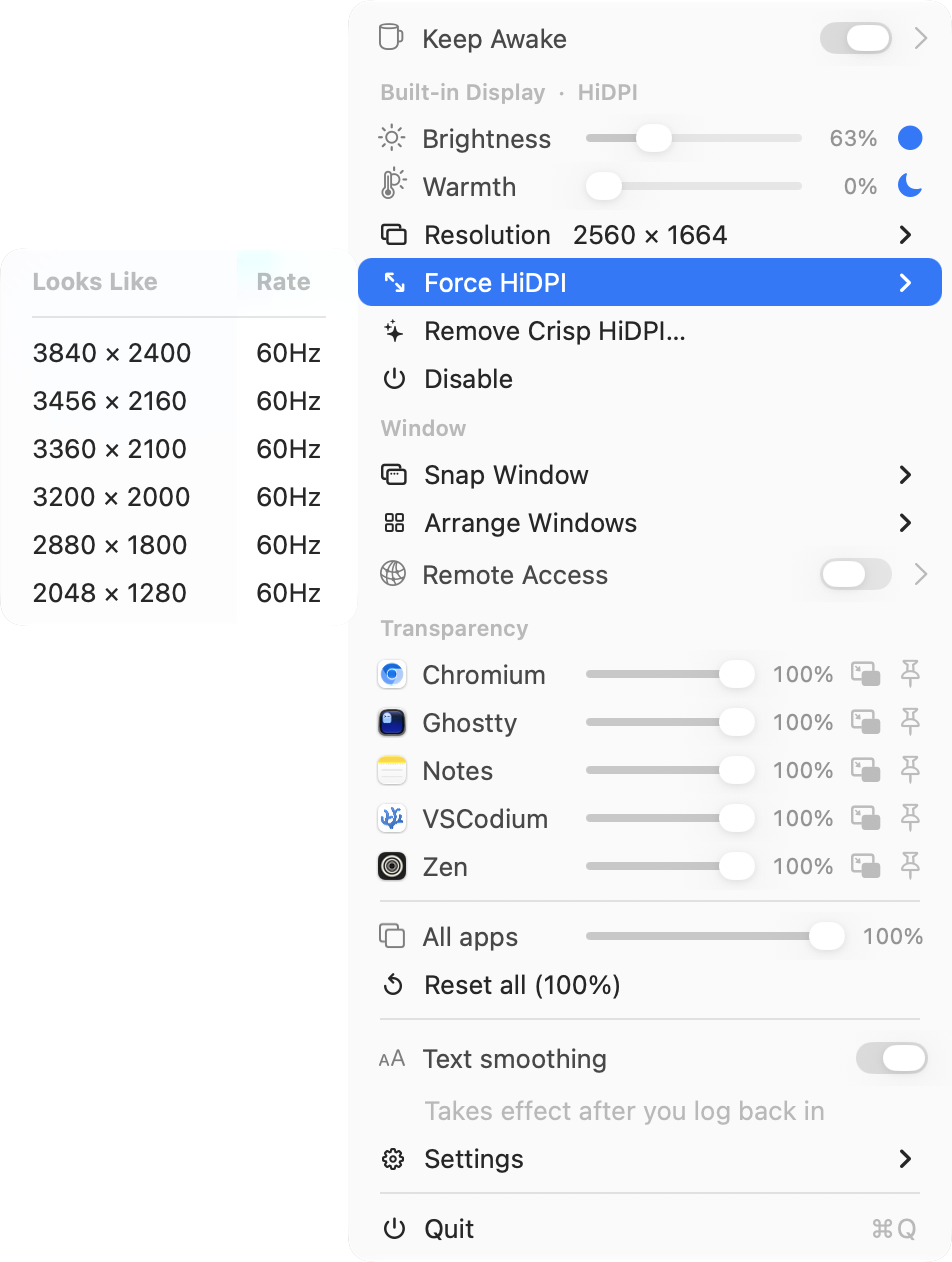
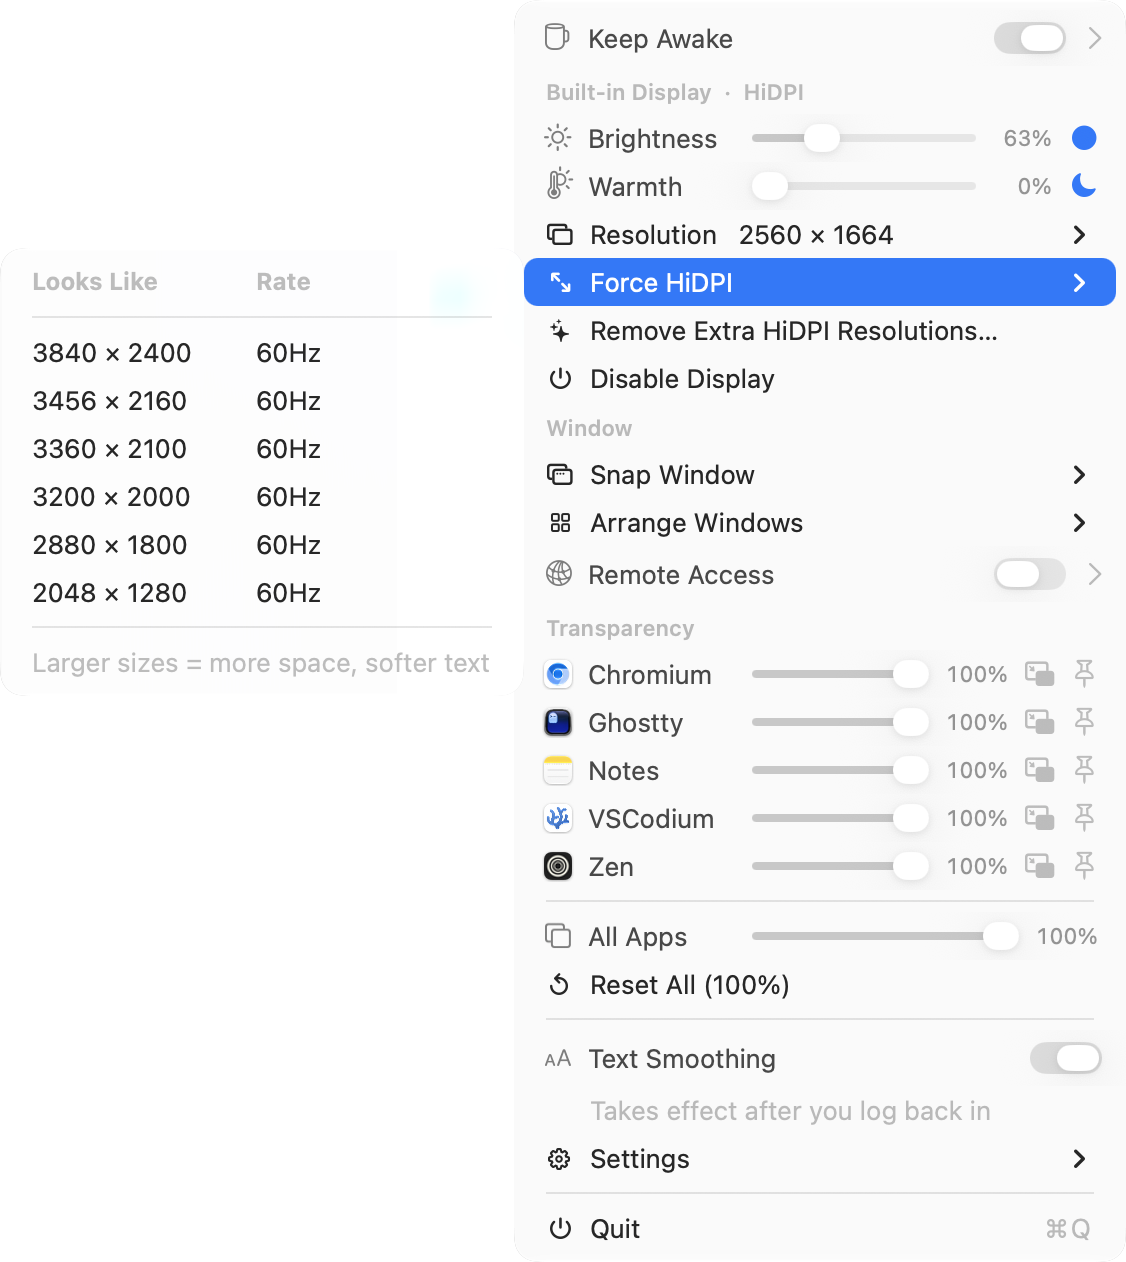
Clearer menu wording and resolution hints
Rename Crisp HiDPI to Extra HiDPI Resolutions, say which thing
Disable/Enable acts on, use Title Case for menu items, and note in the
Resolution and Force HiDPI menus that larger sizes are softer. Refresh
the screenshots to match.

diff --git a/src/app/AppDelegate.m b/src/app/AppDelegate.m
@@ -45,6 +45,7 @@ static const CGFloat kModeTabType = 112;
 static const CGFloat kModeTabRate = 184;
 
 static const CGFloat kSliderRowWidth = 150;
+static NSString *const kLargerSizesHint = @"Larger sizes = more space, softer text";
 static const NSInteger kSliderItemTag = 0x51D5;
 static const void *kDDPctLabelKey = &kDDPctLabelKey;
 
@@ -425,7 +426,7 @@ static NSAttributedString *ddColumns(NSArray<NSString *> *cols, NSArray<NSNumber
 
     [menu addItem:[NSMenuItem separatorItem]];
 
-    [menu addItem:[self switchRow:@"Text smoothing" icon:@"textformat.size"
+    [menu addItem:[self switchRow:@"Text Smoothing" icon:@"textformat.size"
                                on:([self currentFontSmoothing] != 0)
                            action:@selector(fontSmoothingToggled:) width:kSliderRowWidth]];
 
@@ -463,7 +464,7 @@ static NSAttributedString *ddColumns(NSArray<NSString *> *cols, NSArray<NSNumber
         [self addLabelToMenu:m title:
             [NSString stringWithFormat:@"Awake until %@", [df stringFromDate:caf.expiry]]];
     }
-    [m addItem:[NSMenuItem sectionHeaderWithTitle:@"Keep awake for"]];
+    [m addItem:[NSMenuItem sectionHeaderWithTitle:@"Keep Awake For"]];
     NSArray *durations = @[ @[@"15 minutes", @900], @[@"30 minutes", @1800],
                             @[@"1 hour", @3600], @[@"2 hours", @7200], @[@"5 hours", @18000] ];
     for (NSArray *d in durations) {
@@ -616,8 +617,8 @@ static NSAttributedString *ddColumns(NSArray<NSString *> *cols, NSArray<NSNumber
     [sm addItem:[self snapItem:@"Center"   layout:DDSnapCenter   key:@"c"]];
     [sm addItem:[self snapItem:@"Restore"  layout:DDSnapRestore  key:@"z"]];
     [sm addItem:[NSMenuItem separatorItem]];
-    [sm addItem:[self checkItemWithTitle:@"Snap by dragging" key:kSnapDrag]];
-    [sm addItem:[self checkItemWithTitle:@"Keyboard shortcuts (⌃⌥)" key:kSnapShortcuts]];
+    [sm addItem:[self checkItemWithTitle:@"Snap by Dragging" key:kSnapDrag]];
+    [sm addItem:[self checkItemWithTitle:@"Keyboard Shortcuts (⌃⌥)" key:kSnapShortcuts]];
 
     root.submenu = sm;
     [menu addItem:root];
@@ -683,11 +684,11 @@ static NSAttributedString *ddColumns(NSArray<NSString *> *cols, NSArray<NSNumber
         [self addInfoRow:m title:[NSString stringWithFormat:@"This Mac, ssh %d, vnc %d", ra.sshPort, ra.vncPort]
                    image:ddSymbol(@"desktopcomputer")];
     }
-    NSMenuItem *key = [[NSMenuItem alloc] initWithTitle:@"Copy this Mac's relay key"
+    NSMenuItem *key = [[NSMenuItem alloc] initWithTitle:@"Copy This Mac's Relay Key"
         action:@selector(copyRemoteAuthLine:) keyEquivalent:@""];
     key.target = self; key.image = ddSymbol(@"key");
     [m addItem:key];
-    [m addItem:[self switchRow:@"Keep awake while on" icon:@"powersleep"
+    [m addItem:[self switchRow:@"Keep Awake While On" icon:@"powersleep"
                             on:ra.keepAwake action:@selector(keepAwakeRemoteToggled:)
                          width:kSliderRowWidth]];
 
@@ -891,7 +892,7 @@ static NSAttributedString *ddColumns(NSArray<NSString *> *cols, NSArray<NSNumber
             if (display.refreshRate > 0) [line appendFormat:@" %.0fHz", display.refreshRate];
             [self addInfoRow:menu title:line image:ddSymbol(@"display")];
         }
-        [menu addItem:[self actionItem:@"Enable"
+        [menu addItem:[self actionItem:@"Enable Display"
                                 action:@selector(enableDisplay:) displayID:display.displayID
                                 symbol:@"power"]];
         return;
@@ -924,13 +925,13 @@ static NSAttributedString *ddColumns(NSArray<NSString *> *cols, NSArray<NSNumber
 
     BOOL installed = [[HiDPIInjector shared] isInstalledForDisplay:display.displayID];
     [menu addItem:[self actionItem:(installed
-                                    ? @"Remove Crisp HiDPI\u2026"
-                                    : @"Install Crisp HiDPI\u2026")
+                                    ? @"Remove Extra HiDPI Resolutions\u2026"
+                                    : @"Install Extra HiDPI Resolutions\u2026")
                             action:(installed ? @selector(uninstallCrispHiDPI:)
                                               : @selector(installCrispHiDPI:))
                          displayID:display.displayID
                             symbol:@"sparkles"]];
-    [menu addItem:[self actionItem:@"Disable"
+    [menu addItem:[self actionItem:@"Disable Display"
                             action:@selector(disableDisplay:) displayID:display.displayID
                             symbol:@"power"]];
 }
@@ -1010,6 +1011,9 @@ static NSAttributedString *ddColumns(NSArray<NSString *> *cols, NSArray<NSNumber
 
     for (DDDisplayMode *m in options) [submenu addItem:makeRow(m)];
 
+    [submenu addItem:[NSMenuItem separatorItem]];
+    [self addLabelToMenu:submenu title:kLargerSizesHint];
+
     return submenu;
 }
 
@@ -1035,10 +1039,10 @@ static NSAttributedString *ddColumns(NSArray<NSString *> *cols, NSArray<NSNumber
             runningApplicationWithProcessIdentifier:app.pid] icon];
         NSButton *pip = [self rowToggleWithSymbol:@"pip.enter" onSymbol:@"pip.exit"
             state:[[WindowPiP shared] isActiveForApp:app.pid] tag:app.pid
-           action:@selector(togglePiPApp:) tooltip:@"Picture in picture"];
+           action:@selector(togglePiPApp:) tooltip:@"Picture in Picture"];
         NSButton *pin = [self rowToggleWithSymbol:@"pin" onSymbol:@"pin.fill"
             state:app.pinned tag:app.pid
-           action:@selector(togglePinApp:) tooltip:@"Keep on top"];
+           action:@selector(togglePinApp:) tooltip:@"Keep on Top"];
         [menu addItem:[self sliderRowWithLabel:app.name icon:appIcon
                                        percent:pct minPct:20
                                         maxPct:100 continuous:YES tag:app.pid
@@ -1047,13 +1051,13 @@ static NSAttributedString *ddColumns(NSArray<NSString *> *cols, NSArray<NSNumber
     }
 
     [menu addItem:[NSMenuItem separatorItem]];
-    [menu addItem:[self sliderRowWithLabel:@"All apps" icon:ddSymbol(@"square.on.square")
+    [menu addItem:[self sliderRowWithLabel:@"All Apps" icon:ddSymbol(@"square.on.square")
                                    percent:100 minPct:20
                                     maxPct:100 continuous:YES tag:0
                                     action:@selector(opacitySliderChanged:)
                                  accessories:@[]]];
     NSMenuItem *reset = [[NSMenuItem alloc]
-        initWithTitle:@"Reset all (100%)"
+        initWithTitle:@"Reset All (100%)"
                action:@selector(resetAllTransparency:) keyEquivalent:@""];
     reset.target = self;
     reset.image = ddSymbol(@"arrow.counterclockwise");
@@ -1289,16 +1293,16 @@ static NSAttributedString *ddColumns(NSArray<NSString *> *cols, NSArray<NSNumber
     [menu removeAllItems];
 
     [menu addItem:[NSMenuItem sectionHeaderWithTitle:@"General"]];
-    [menu addItem:[self checkItemWithTitle:@"Show notifications" key:kShowNotifications]];
-    [menu addItem:[self checkItemWithTitle:@"Confirm before disabling" key:kConfirmDisable]];
-    [menu addItem:[self checkItemWithTitle:@"Show non-HiDPI resolutions" key:kShowResolutions]];
+    [menu addItem:[self checkItemWithTitle:@"Show Notifications" key:kShowNotifications]];
+    [menu addItem:[self checkItemWithTitle:@"Confirm Before Disabling" key:kConfirmDisable]];
+    [menu addItem:[self checkItemWithTitle:@"Show Non-HiDPI Resolutions" key:kShowResolutions]];
 
     [menu addItem:[NSMenuItem sectionHeaderWithTitle:@"Display"]];
-    [menu addItem:[self checkItemWithTitle:@"Turn off built-in with external display"
+    [menu addItem:[self checkItemWithTitle:@"Turn Off Built-in Display When an External Is Connected"
                                        key:kAutoManage]];
 
     [menu addItem:[NSMenuItem sectionHeaderWithTitle:@"Transparency"]];
-    [menu addItem:[self checkItemWithTitle:@"Frosted glass blur" key:kFrostedBlur]];
+    [menu addItem:[self checkItemWithTitle:@"Frosted Glass Blur" key:kFrostedBlur]];
 
     [menu addItem:[NSMenuItem separatorItem]];
     NSMenuItem *login = [[NSMenuItem alloc] initWithTitle:@"Launch at Login"
@@ -1308,7 +1312,7 @@ static NSAttributedString *ddColumns(NSArray<NSString *> *cols, NSArray<NSNumber
         ? NSControlStateValueOn : NSControlStateValueOff;
     [menu addItem:login];
 
-    [menu addItem:[NSMenuItem sectionHeaderWithTitle:@"Help & support"]];
+    [menu addItem:[NSMenuItem sectionHeaderWithTitle:@"Help & Support"]];
     [menu addItem:[self linkItem:@"Support DisplayDeck…" symbol:@"heart"
         url:@"https://donate.stripe.com/3cI6oI7Gh1PG0eV8MJ5kk00"]];
     [menu addItem:[self linkItem:@"Report a Bug…" symbol:@"ladybug"
@@ -1437,6 +1441,7 @@ static NSAttributedString *ddColumns(NSArray<NSString *> *cols, NSArray<NSNumber
 
     [submenu addItem:[NSMenuItem separatorItem]];
     [self addLabelToMenu:submenu title:@"★ = panel-native (crispest)"];
+    [self addLabelToMenu:submenu title:kLargerSizesHint];
 
     return submenu;
 }
@@ -1597,7 +1602,7 @@ static NSAttributedString *ddColumns(NSArray<NSString *> *cols, NSArray<NSNumber
 
     NSAlert *alert = [[NSAlert alloc] init];
     alert.messageText = [NSString stringWithFormat:
-        @"Install crisp HiDPI on \"%@\"?", name];
+        @"Install extra HiDPI resolutions on \"%@\"?", name];
     alert.informativeText = [NSString stringWithFormat:
         @"Writes /Library/Displays/…/DisplayVendorID-%x/DisplayProductID-%x "
         @"with these logical resolutions as native HiDPI modes:\n\n%@\n"
@@ -1625,7 +1630,7 @@ static NSAttributedString *ddColumns(NSArray<NSString *> *cols, NSArray<NSNumber
         [strongSelf rebuildMenu];
         [strongSelf offerRebootWithMessage:
             [NSString stringWithFormat:
-             @"Crisp HiDPI overrides installed for \"%@\".", name]];
+             @"Extra HiDPI resolutions installed for \"%@\".", name]];
     }];
 }
 
@@ -1634,7 +1639,7 @@ static NSAttributedString *ddColumns(NSArray<NSString *> *cols, NSArray<NSNumber
     NSString *name = [self.displayManager nameForDisplayID:did];
 
     if (![self confirmDestructive:[NSString stringWithFormat:
-                                   @"Remove crisp HiDPI overrides for \"%@\"?", name]
+                                   @"Remove extra HiDPI resolutions for \"%@\"?", name]
                              info:@"Requires admin password. A reboot is needed "
                                   @"to fully revert to macOS defaults."
                        actionName:@"Remove"]) {
@@ -1657,7 +1662,7 @@ static NSAttributedString *ddColumns(NSArray<NSString *> *cols, NSArray<NSNumber
         [strongSelf rebuildMenu];
         [strongSelf offerRebootWithMessage:
             [NSString stringWithFormat:
-             @"Crisp HiDPI overrides removed for \"%@\".", name]];
+             @"Extra HiDPI resolutions removed for \"%@\".", name]];
     }];
 }
 

diff --git a/README.md b/README.md
@@ -32,7 +32,7 @@ Disable & enable screens, Force HiDPI, brightness with EDR boost, color warmth (
 |                                  |                                                                                                                                                                                                                                                                                                                                                                                                                                                                                                                                                                              |
 | -------------------------------- | ---------------------------------------------------------------------------------------------------------------------------------------------------------------------------------------------------------------------------------------------------------------------------------------------------------------------------------------------------------------------------------------------------------------------------------------------------------------------------------------------------------------------------------------------------------------------------- |
 | **Disable / enable any display** | Turn off the built-in panel in clamshell/headless setups so it stays off when the lid opens. Optionally auto-disable the built-in whenever an external monitor connects - with a **failsafe** that re-enables the built-in if a disconnect (or a stale/phantom external entry) would otherwise leave you with no usable screen.                                                                                                                                                                                                                                              |
-| ⤢ **Force HiDPI**                | Add crisp scaled (retina) resolutions to displays that don't natively offer them, via a mirrored private `SLVirtualDisplay`, plus a "More Space" supersampling tier. Optionally writes **persistent "crisp HiDPI" override plists**.                                                                                                                                                                                                                                                                                                                                         |
+| ⤢ **Force HiDPI**                | Add crisp scaled (retina) resolutions to displays that don't natively offer them, via a mirrored private `SLVirtualDisplay`, plus a "More Space" supersampling tier. Optionally writes **persistent "extra HiDPI resolutions" override plists**.                                                                                                                                                                                                                                                                                                                             |
 | **Brightness + boost**           | Built-in panel via `DisplayServices`, externals via DDC/CI, an inline **auto-brightness** toggle, and an **EDR boost above 100%** clamped to the display's real, learned headroom (mild on a built-in, big on a true XDR/HDR panel) - colors preserved, auto-suspends in Mission Control.                                                                                                                                                                                                                                                                                    |
 | **Warmth + auto-night**          | Per-display color-temperature slider (f.lux / Night-Shift style) via gamma ramps - 6500 K neutral → ~3400 K warm, persisted, restores native ColorSync at 0%. An **automatic night schedule** (moon toggle) eases warmth on at dusk and off by morning, hands-free.                                                                                                                                                                                                                                                                                                          |
 | **Window snapping**              | Tile the focused window to **halves, quarters, thirds / two-thirds, maximize, center**, or **restore** - via **global `⌃⌥` keyboard shortcuts**, **dragging to a screen edge/corner** (with a live preview), or the **Window** menu. Uses the Accessibility API; works on a stock machine.                                                                                                                                                                                                                                                                                   |
@@ -128,7 +128,7 @@ make uninstall      # removes the app + (with admin) the scripting addition & su
 
 ## How it works
 
-- Disabling uses the private `CGSConfigureDisplayEnabled`; Force HiDPI mirrors the panel onto a private `SLVirtualDisplay` pinned to the desired logical size, and "crisp HiDPI" writes display-override plists under `/Library/Displays/.../Overrides`.
+- Disabling uses the private `CGSConfigureDisplayEnabled`; Force HiDPI mirrors the panel onto a private `SLVirtualDisplay` pinned to the desired logical size, and "extra HiDPI resolutions" writes display-override plists under `/Library/Displays/.../Overrides`.
 - Transparency injects a payload into Dock (`task_for_pid` + an arm64e bootstrap) that calls `SLSSetWindowAlpha` / `SLSSetWindowBackgroundBlurRadius` / `SLSSetWindowLevel` over a private unix socket. The injection technique is adapted from [yabai](https://github.com/koekeishiya/yabai) (MIT); see `sa/loader.m`.
 - Warmth loads per-channel gamma ramps with the public `CGSetDisplayTransferByTable`; the brightness boost is a borderless EDR overlay (`CAMetalLayer`, multiply blend) clamped each frame to the live `maximumExtendedDynamicRangeColorComponentValue`.
 - Picture-in-Picture resizes/moves the real window through the Accessibility API (`AXUIElement`) and reuses Keep-on-top for the float.

diff --git a/CHANGELOG.md b/CHANGELOG.md
@@ -8,6 +8,11 @@ All notable changes to DisplayDeck are documented here. Format follows [Keep a C
 
 - **The ★ in the Resolution menu now marks the modes that really are panel-native.** It was following macOS's "default" flag, which on notched MacBooks points at a scaled mode (1470 × 956 on a 13" Air). It now marks the one mode whose backing matches the panel's pixels exactly (1280 × 832 HiDPI there).
 
+### Changed
+
+- **Clearer menu wording.** "Install / Remove Crisp HiDPI…" is now "Install / Remove Extra HiDPI Resolutions…" (the added sizes above the ★ are softer, not crisper), "Disable" is "Disable Display", and menu items use Title Case throughout.
+- **The Resolution and Force HiDPI menus now say that larger sizes trade sharpness for space.**
+
 ## [2.8.3] - 2026-10-10
 
 ### Fixed
